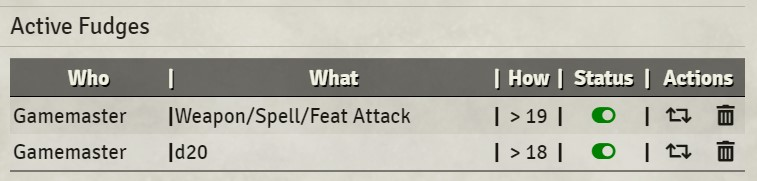
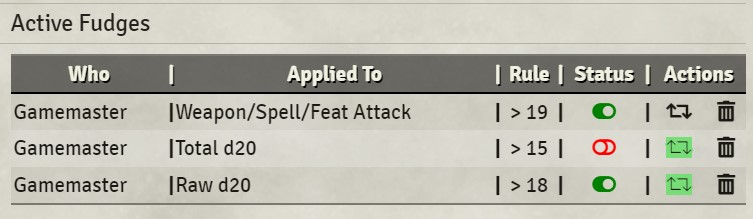
v0.0.6

diff --git a/README.md b/README.md
@@ -31,7 +31,7 @@ Extensive logging is used within the module, with debug logging enabled with the
 
 # Current module Functionality
 ## Fudge
-Allow the GM to influence die rolls
+Allow the GM to influence raw die rolls (just the dice) or roll totals (dice + modifiers)
 
 # Fudge
 ![die-hard-fudge](docs/die-hard-fudge.jpg)
@@ -44,11 +44,15 @@ If there are active fudges, the poop icon will pulse orange
 
 Clicking on this icon will open a configuration dialog.
 
+![die-hard-fudge-1](docs/die-hard-fudge-1b.jpg)
+
+Right clicking on the poop icon will pause all fudges.  Right clicking again will resume all fudges.
+
 ![die-hard-fudge-2](docs/die-hard-fudge-2.jpg)
 
 Within the dialog, to create a new Fudge do the following:
 * Select the GM/Online Player/actor (currently only online player PCs) this should affect
-* Select the type of roll this should affect (system specific or raw die roll)
+* Select the type of roll this should affect (system specific, roll total, or raw die roll)
 * Enter a formula using the format of "OPERATOR VALUE"
   * Available operators are:
     * `<`
@@ -62,12 +66,12 @@ Within the dialog, to create a new Fudge do the following:
 
 All active fudges are listed at the right.
 Status details if a fudge is active or disabled.
-A pulsing green circular arrow means the fudge will re-enable itself after being used
+A green circular arrow means the fudge will re-enable itself after being used (persistent on)
 
 ![die-hard-fudge-3](docs/die-hard-fudge-3.jpg)
 
 # Mechanics
-The way Fudge works is that the next die roll of that type (either system specific or a raw die roll) for that Player or Actor will be evaluated against the formula defined.  If it doesn't meet the formula criteria, then the die is rerolled in the background (max of 150 times), with the final result presented to the PC.  As it is re-rolling, if the attempted re-roll is "closer" to the desired fudge value, it will be kept.  (For circumstances where the fudge can never be achieved, at least get as close as possible)  The GM will get a whisper that outlines if the fudge was used (with all failed results), or if it was removed without being used (if first roll met formula criteria).  When a fudge is used to influence a die (or would have, but original result was sufficient), then the fudge is disabled. 
+The way Fudge works is that the next die roll of that type (either system specific, total result w/ modifiers, or a raw die roll) for that Player or Actor will be evaluated against the formula defined.  If it doesn't meet the formula criteria, then the result is rerolled in the background (max of 150 times), with the final result presented to the PC.  As it is re-rolling, if the attempted re-roll is "closer" to the desired fudge value, it will be kept.  (For circumstances where the fudge can never be achieved, at least get as close as possible)  The GM will get a whisper that outlines if the fudge was used (with all failed results), or if it was removed without being used (if first roll met formula criteria).  When a fudge is used to influence a die (or would have, but original result was sufficient), then the fudge is disabled (unless persistence is enabled). 
 
 ![die-hard-fudge-4](docs/die-hard-fudge-4.jpg)
 
